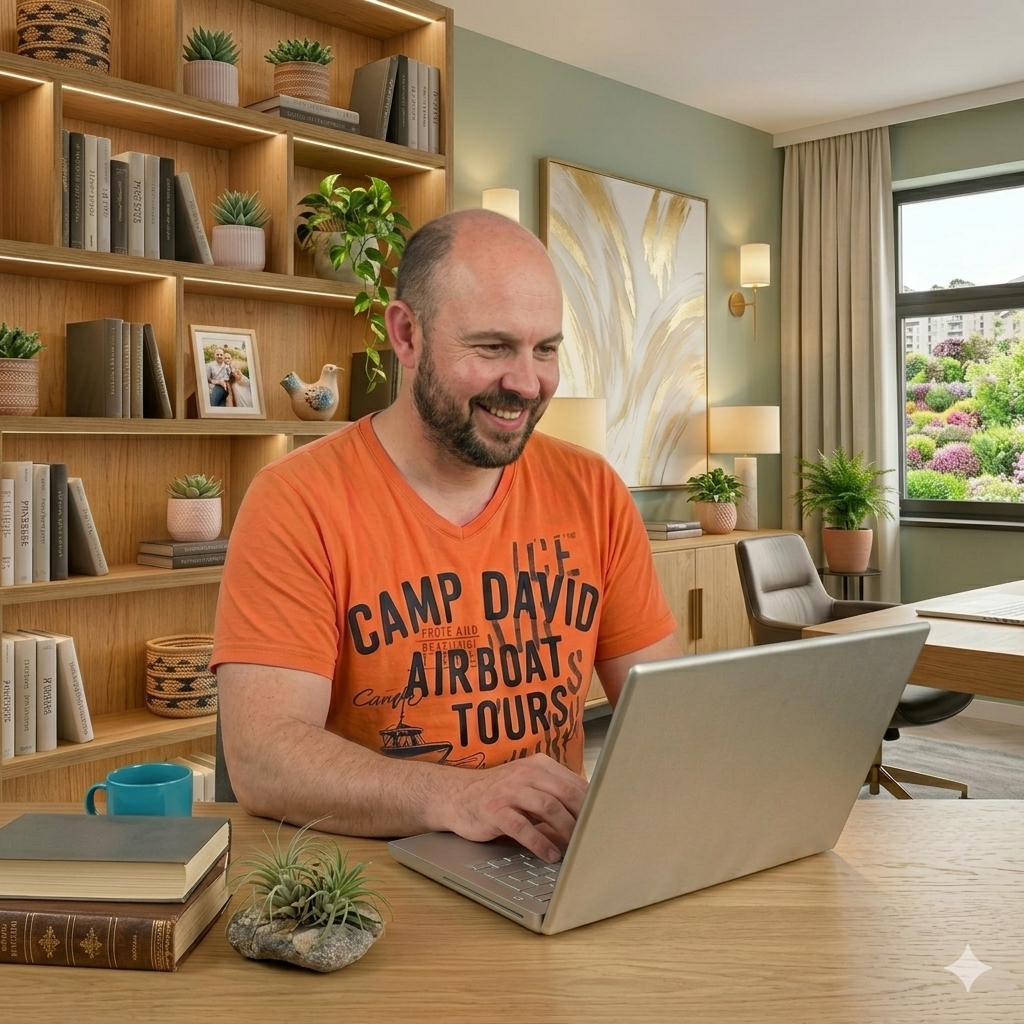
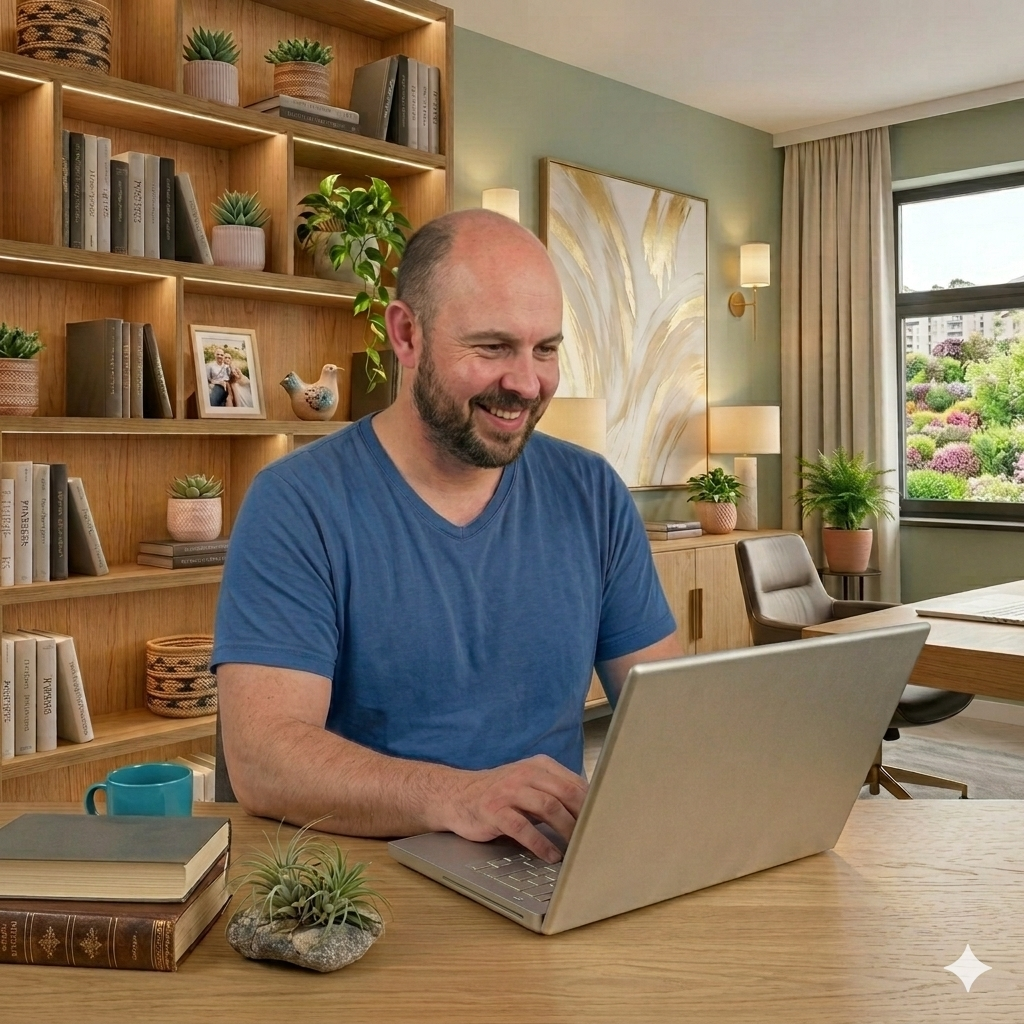
feat: - Added missing links - Added a link from the legal notice back to the main page

diff --git a/src/app/component/imprint/imprint.html b/src/app/component/imprint/imprint.html
@@ -1,8 +1,8 @@
 <main class="imprint">
-    <h1 class="imprint_title">Impressum</h1>
+    <h1 class="imprint_title">{{ 'imprint.title' | translate }}</h1>
 
     <section class="imprint_block">
-        <h2>Angaben gemäß § 5 DDG</h2>
+        <h2>{{ 'imprint.providerTitle' | translate }}</h2>
         <p>
             {{ data.name }}<br>
             {{ data.street }}<br>
@@ -12,59 +12,40 @@
     </section>
 
     <section class="imprint_block">
-        <h2>Kontakt</h2>
+        <h2>{{ 'imprint.contactTitle' | translate }}</h2>
         <p>
-            E-Mail: <a [href]="'mailto:' + data.email">{{ data.email }}</a>
+            {{ 'imprint.email' | translate }}: <a [href]="'mailto:' + data.email">{{ data.email }}</a>
             @if (data.phone) {
-                <br>Telefon: {{ data.phone }}
+                <br>{{ 'imprint.phone' | translate }}: {{ data.phone }}
             }
         </p>
     </section>
 
     @if (data.vatId) {
         <section class="imprint_block">
-            <h2>Umsatzsteuer-ID</h2>
-            <p>Umsatzsteuer-Identifikationsnummer gemäß § 27a Umsatzsteuergesetz: {{ data.vatId }}</p>
+            <h2>{{ 'imprint.vatTitle' | translate }}</h2>
+            <p>{{ 'imprint.vatText' | translate }} {{ data.vatId }}</p>
         </section>
     }
 
     <section class="imprint_block">
-        <h2>Verantwortlich für den Inhalt nach § 18 Abs. 2 MStV</h2>
-        <p>{{ data.name }}, Anschrift wie oben</p>
+        <h2>{{ 'imprint.responsibleTitle' | translate }}</h2>
+        <p>{{ data.name }}, {{ 'imprint.responsibleText' | translate }}</p>
     </section>
 
     <section class="imprint_block">
-        <h2>Haftung für Inhalte</h2>
-        <p>
-            Als Diensteanbieter bin ich gemäß den allgemeinen Gesetzen für eigene Inhalte auf diesen Seiten
-            verantwortlich. Ich bin jedoch nicht verpflichtet, übermittelte oder gespeicherte fremde
-            Informationen zu überwachen oder nach Umständen zu forschen, die auf eine rechtswidrige
-            Tätigkeit hinweisen. Verpflichtungen zur Entfernung oder Sperrung der Nutzung von Informationen
-            nach den allgemeinen Gesetzen bleiben unberührt. Eine Haftung ist erst ab dem Zeitpunkt der
-            Kenntnis einer konkreten Rechtsverletzung möglich. Bei Bekanntwerden entsprechender
-            Rechtsverletzungen werde ich diese Inhalte umgehend entfernen.
-        </p>
+        <h2>{{ 'imprint.contentLiabilityTitle' | translate }}</h2>
+        <p>{{ 'imprint.contentLiabilityText' | translate }}</p>
     </section>
 
     <section class="imprint_block">
-        <h2>Haftung für Links</h2>
-        <p>
-            Diese Website enthält Links zu externen Websites Dritter, auf deren Inhalte ich keinen Einfluss
-            habe. Für diese fremden Inhalte kann ich keine Gewähr übernehmen. Für die Inhalte der verlinkten
-            Seiten ist stets der jeweilige Anbieter oder Betreiber verantwortlich. Bei Bekanntwerden von
-            Rechtsverletzungen werde ich derartige Links umgehend entfernen.
-        </p>
+        <h2>{{ 'imprint.linkLiabilityTitle' | translate }}</h2>
+        <p>{{ 'imprint.linkLiabilityText' | translate }}</p>
     </section>
 
     <section class="imprint_block">
-        <h2>Urheberrecht</h2>
-        <p>
-            Die durch den Seitenbetreiber erstellten Inhalte und Werke auf diesen Seiten unterliegen dem
-            deutschen Urheberrecht. Vervielfältigung, Bearbeitung, Verbreitung und jede Art der Verwertung
-            außerhalb der Grenzen des Urheberrechts bedürfen der schriftlichen Zustimmung des jeweiligen
-            Autors bzw. Erstellers. Soweit Inhalte auf dieser Seite nicht vom Betreiber erstellt wurden, werden
-            die Urheberrechte Dritter beachtet. Sollten Sie trotzdem auf eine Urheberrechtsverletzung
-            aufmerksam werden, bitte ich um einen entsprechenden Hinweis.
-        </p>
+        <h2>{{ 'imprint.copyrightTitle' | translate }}</h2>
+        <p>{{ 'imprint.copyrightText' | translate }}</p>
     </section>
+    <a class="imprint_back" routerLink="/">{{ 'imprint.back' | translate }}</a>
 </main>

diff --git a/src/app/main-page/contact/contact.ts b/src/app/main-page/contact/contact.ts
@@ -1,3 +1,4 @@
+import { HttpClient } from '@angular/common/http';
 import { Component, inject, signal } from '@angular/core';
 import { NonNullableFormBuilder, ReactiveFormsModule, Validators } from '@angular/forms';
 import { TranslatePipe } from '@ngx-translate/core';
@@ -10,7 +11,10 @@ import { TranslatePipe } from '@ngx-translate/core';
 })
 export class Contact {
   private fb = inject(NonNullableFormBuilder);
+  private http = inject(HttpClient);
   submitted = signal(false);
+  sending = signal(false);
+  sendError = signal(false);
 
   contactForm = this.fb.group({
     name: ['', [Validators.required, Validators.minLength(3)]],
@@ -20,9 +24,23 @@ export class Contact {
   });
 
   onSubmit(): void {
-    console.log(this.contactForm.value)
-    if(this.contactForm.invalid) return;
-    this.submitted.set(true);
-    this.contactForm.reset()
+    if (this.contactForm.invalid || this.sending()) return;
+
+    const {name, email, message} = this.contactForm.getRawValue();
+    this.sending.set(true);
+    this.sendError.set(false);
+    this.submitted.set(false);
+
+    this.http.post<{success: Boolean}>('contact_form_mail.php', {name, email, message}).subscribe({
+      next: () => {
+        this.contactForm.reset();
+        this.submitted.set(true);
+        this.sending.set(false);
+      },
+      error: () => {
+        this.sendError.set(true);
+        this.sending.set(false);
+      },
+    });
   }
 }

diff --git a/src/app/component/imprint/imprint.ts b/src/app/component/imprint/imprint.ts
@@ -1,7 +1,9 @@
 import { Component } from '@angular/core';
+import { RouterLink } from '@angular/router';
+import { TranslatePipe } from '@ngx-translate/core';
 
 @Component({
-  imports: [],
+  imports: [TranslatePipe, RouterLink],
   selector: 'app-imprint',
   styleUrl: './imprint.scss',
   templateUrl: './imprint.html',
@@ -9,10 +11,10 @@ import { Component } from '@angular/core';
 export class Imprint {
   data = {
     name: 'Christian Scherlipp',
-    street: '[Albert-Buchmann-str. 28]',
-    zipCity: '[16515 Oranienburg]',
+    street: 'Albert-Buchmann-str. 28',
+    zipCity: '16515 Oranienburg',
     country: 'Deutschland',
-    email: '[c.scherlipp@web.de]',
+    email: 'c.scherlipp@web.de',
     phone: '',
     vatId: '',
   }

diff --git a/src/app/landing-page/hero/hero.html b/src/app/landing-page/hero/hero.html
@@ -12,7 +12,7 @@
             <button class="cta-button" (click)="navigateToContact()">{{ 'hero.talkButton' | translate}}</button>
             <div class="link-icon">
                 <a href="https://github.com/ChristianScherlipp" target="_blank" rel="noopener"><img src="/assets/icons/github.svg" alt="Github Icon"></a>
-                <a href=""><img src="/assets/icons/mail.svg" alt="Email Icon"></a>
+                <a [routerLink]="['/']" fragment="contact"><img src="/assets/icons/mail.svg" alt="Email Icon"></a>
                 <a href="https://www.linkedin.com/feed/" target="_blank" rel="noopener"><img src="/assets/icons/linkedin.svg" alt="LinkedIn Icon"></a>
             </div>
         </section>

diff --git a/src/app/main-page/contact/contact.html b/src/app/main-page/contact/contact.html
@@ -34,7 +34,10 @@
                 <p class="contact-form_error">{{ 'contact.errors.privacy' | translate}}</p>
             }
         </fieldset>
-        <button type="submit" class="contact-form_submit" [disabled]="contactForm.invalid">{{ 'contact.sendButton' | translate}}</button>
+        <button type="submit" class="contact-form_submit" [disabled]="contactForm.invalid || sending()">{{ 'contact.sendButton' | translate}}</button>
+        @if (sendError()) {
+            <p class="contact-form_error">{{ 'contact.errors.send' | translate}}</p>
+        }
         @if (submitted()) {
             <p class="contact-form_success">{{ 'contact.success' | translate}}</p>
         }

diff --git a/src/app/component/imprint/imprint.scss b/src/app/component/imprint/imprint.scss
@@ -56,3 +56,21 @@
         text-decoration: underline;
     }
 }
+
+.imprint_back {
+    align-self: flex-start;
+    padding: 0.75rem 2rem;
+    font-size: 1.125rem;
+    font-weight: 600;
+    text-decoration: none;
+    color: var.$accent-blue;
+    border: 2px solid var.$field-border-color;
+    border-radius: 0.5rem;
+    transition: background-color 0.25s ease, color 0.25s ease, border-color 0.25s ease;
+
+    &:hover {
+        border-color: var.$accent-blue;
+        background-color: var.$accent-blue;
+        color: var.$basic-bg-color;
+    }
+}

diff --git a/src/app/landing-page/hero/hero.ts b/src/app/landing-page/hero/hero.ts
@@ -1,9 +1,9 @@
 import { Component, ElementRef, inject } from '@angular/core';
-import { Router } from '@angular/router';
+import { Router, RouterLink } from '@angular/router';
 import { TranslatePipe } from '@ngx-translate/core';
 
 @Component({
-  imports: [TranslatePipe],
+  imports: [TranslatePipe, RouterLink],
   selector: 'app-hero',
   styleUrl: './hero.scss',
   templateUrl: './hero.html',

diff --git a/src/app/landing-page/navbar/navbar.scss b/src/app/landing-page/navbar/navbar.scss
@@ -13,7 +13,7 @@
     justify-content: space-between;
     align-items: center;
     gap: 1rem;
-    background: transparent;
+    background: var.$basic-bg-color;
     z-index: 10;
 
     @include mix.respond-below(900px) {

diff --git a/src/app/main-page/contact/contact.scss b/src/app/main-page/contact/contact.scss
@@ -121,6 +121,8 @@
     display: flex;
     flex-direction: column;
     gap: 0.375rem;
+    border: none;
+    min-width: 0;
 }
 
 .contact-form_error {
